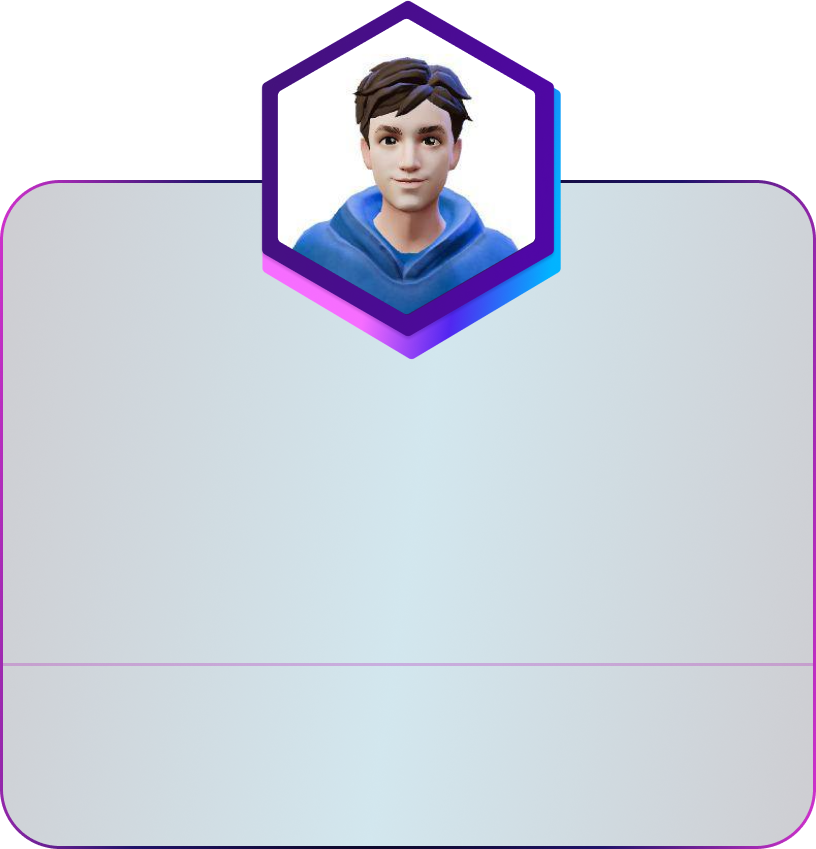
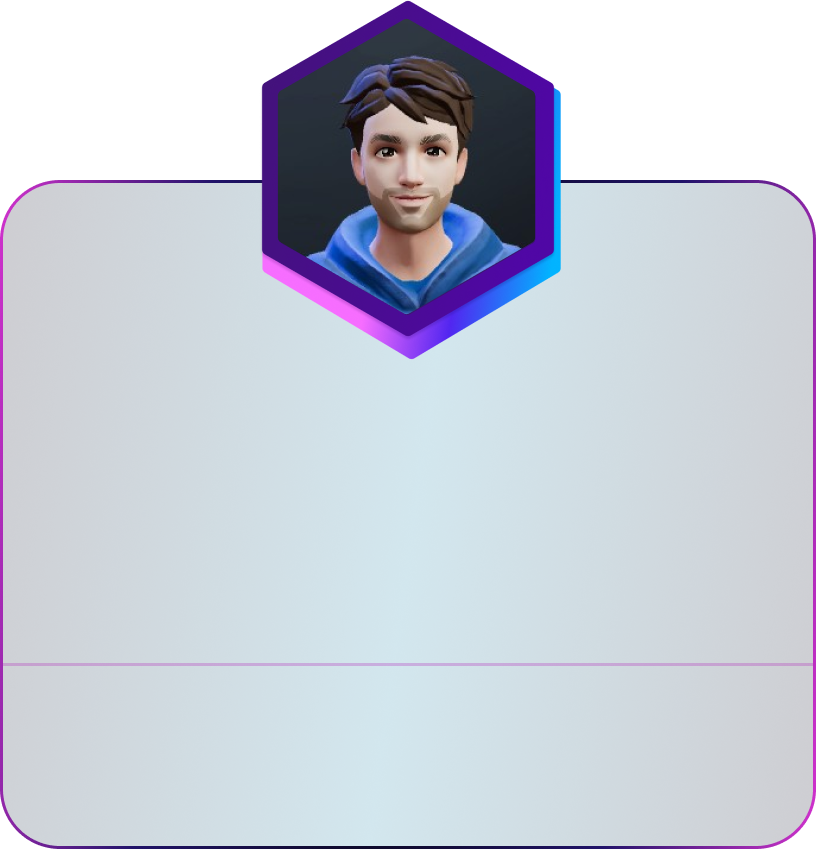
правки

Changed region(s): [[0.337, 0.0, 0.674, 0.3675]]

diff --git a/components/blocks/blockTeam/blockTeam.module.css b/components/blocks/blockTeam/blockTeam.module.css
@@ -25,6 +25,12 @@
   margin: 0px 10px;
 }
 
+@media(min-width: 992px) {
+  .teamItem {
+    margin-bottom: 40px;
+  }
+}
+
 .teamItem:nth-child(1) {
   background: url(/images/teamFrame-1.png) no-repeat;
   background-size: 100%;
@@ -43,6 +49,31 @@
 
 .teamItem:nth-child(4) {
   background: url(/images/teamFrame-4.png) no-repeat;
+  background-size: 100%;
+}
+
+.teamItem:nth-child(5) {
+  background: url(/images/teamFrame-5.png) no-repeat;
+  background-size: 100%;
+}
+
+.teamItem:nth-child(6) {
+  background: url(/images/teamFrame-6.png) no-repeat;
+  background-size: 100%;
+}
+
+.teamItem:nth-child(7) {
+  background: url(/images/teamFrame-7.png) no-repeat;
+  background-size: 100%;
+}
+
+.teamItem:nth-child(8) {
+  background: url(/images/teamFrame-8.png) no-repeat;
+  background-size: 100%;
+}
+
+.teamItem:nth-child(9) {
+  background: url(/images/teamFrame-9.png) no-repeat;
   background-size: 100%;
 }
 
@@ -65,6 +96,31 @@
 
   .teamItem:nth-child(4) {
     background: url(/images/teamFrame-4.webp) no-repeat;
+    background-size: 100%;
+  }
+
+  .teamItem:nth-child(5) {
+    background: url(/images/teamFrame-5.webp) no-repeat;
+    background-size: 100%;
+  }
+
+  .teamItem:nth-child(6) {
+    background: url(/images/teamFrame-6.webp) no-repeat;
+    background-size: 100%;
+  }
+
+  .teamItem:nth-child(7) {
+    background: url(/images/teamFrame-7.webp) no-repeat;
+    background-size: 100%;
+  }
+
+  .teamItem:nth-child(8) {
+    background: url(/images/teamFrame-8.webp) no-repeat;
+    background-size: 100%;
+  }
+
+  .teamItem:nth-child(9) {
+    background: url(/images/teamFrame-9.webp) no-repeat;
     background-size: 100%;
   }
 }

diff --git a/pages/index.tsx b/pages/index.tsx
@@ -113,10 +113,14 @@ const Home: NextPage = () => {
               "Team"
           } members={[
             { 'title': 'Anatoliy Betin', 'email': 'Co founder / Product' },
-            { 'title': 'Leslie Alexander', 'email': 'bill.sanders@example.com' },
-            { 'title': 'Dianne Russell', 'email': 'sara.cruz@example.com' },
-            { 'title': 'Ralph Edwards', 'email': 'michelle.rivera@example.com' },
-            { 'title': 'Darrell Steward', 'email': 'alma.lawson@example.com' }
+            { 'title': 'Timofey Grigorenko', 'email': 'Co founder' },
+            { 'title': 'Lev Gayun', 'email': 'CMO' },
+            { 'title': 'Dmitriy Zyuskun', 'email': 'Project Manager' },
+            { 'title': 'Nikita Kuznecov', 'email': 'CTO' },
+            { 'title': 'Nikita Trotila', 'email': 'Head 3D' },
+            { 'title': 'Kirill Frolov', 'email': 'Head of Design' },
+            { 'title': 'Timur Valiev', 'email': 'Community manager' },
+            { 'title': 'Slava Voroncov', 'email': '3d Unity' },
           ]}></BlockTeam>
 
 
